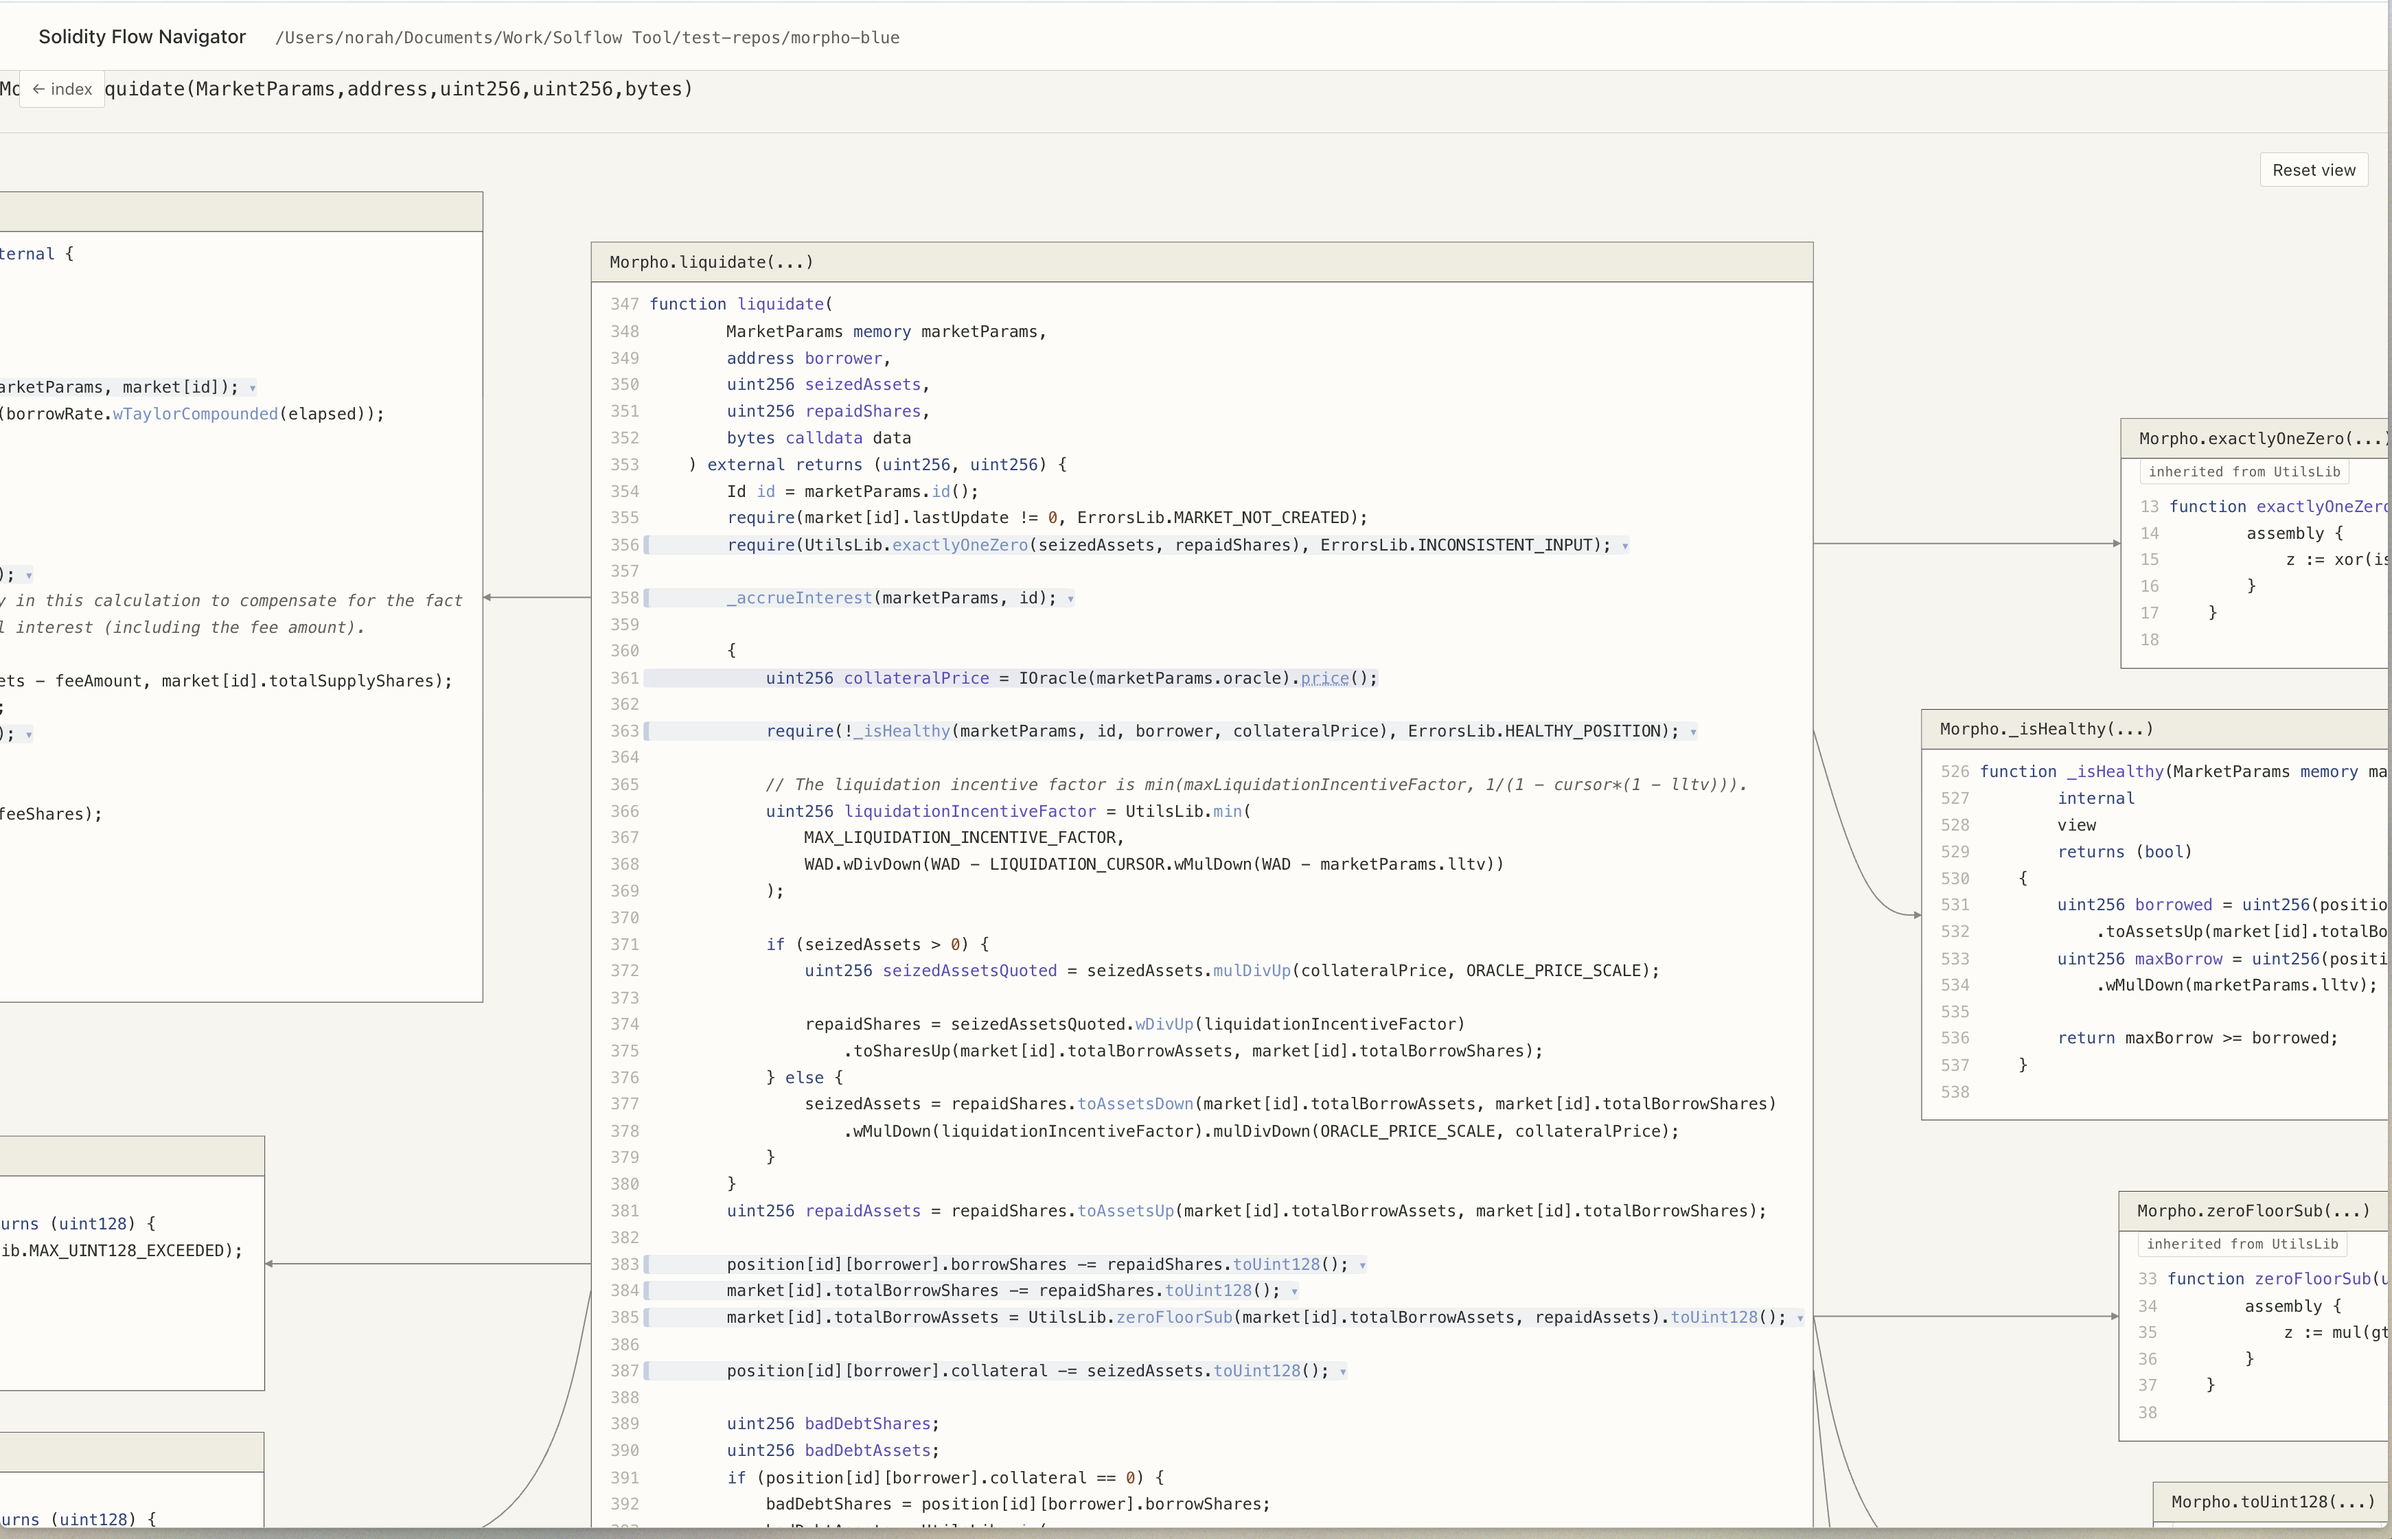
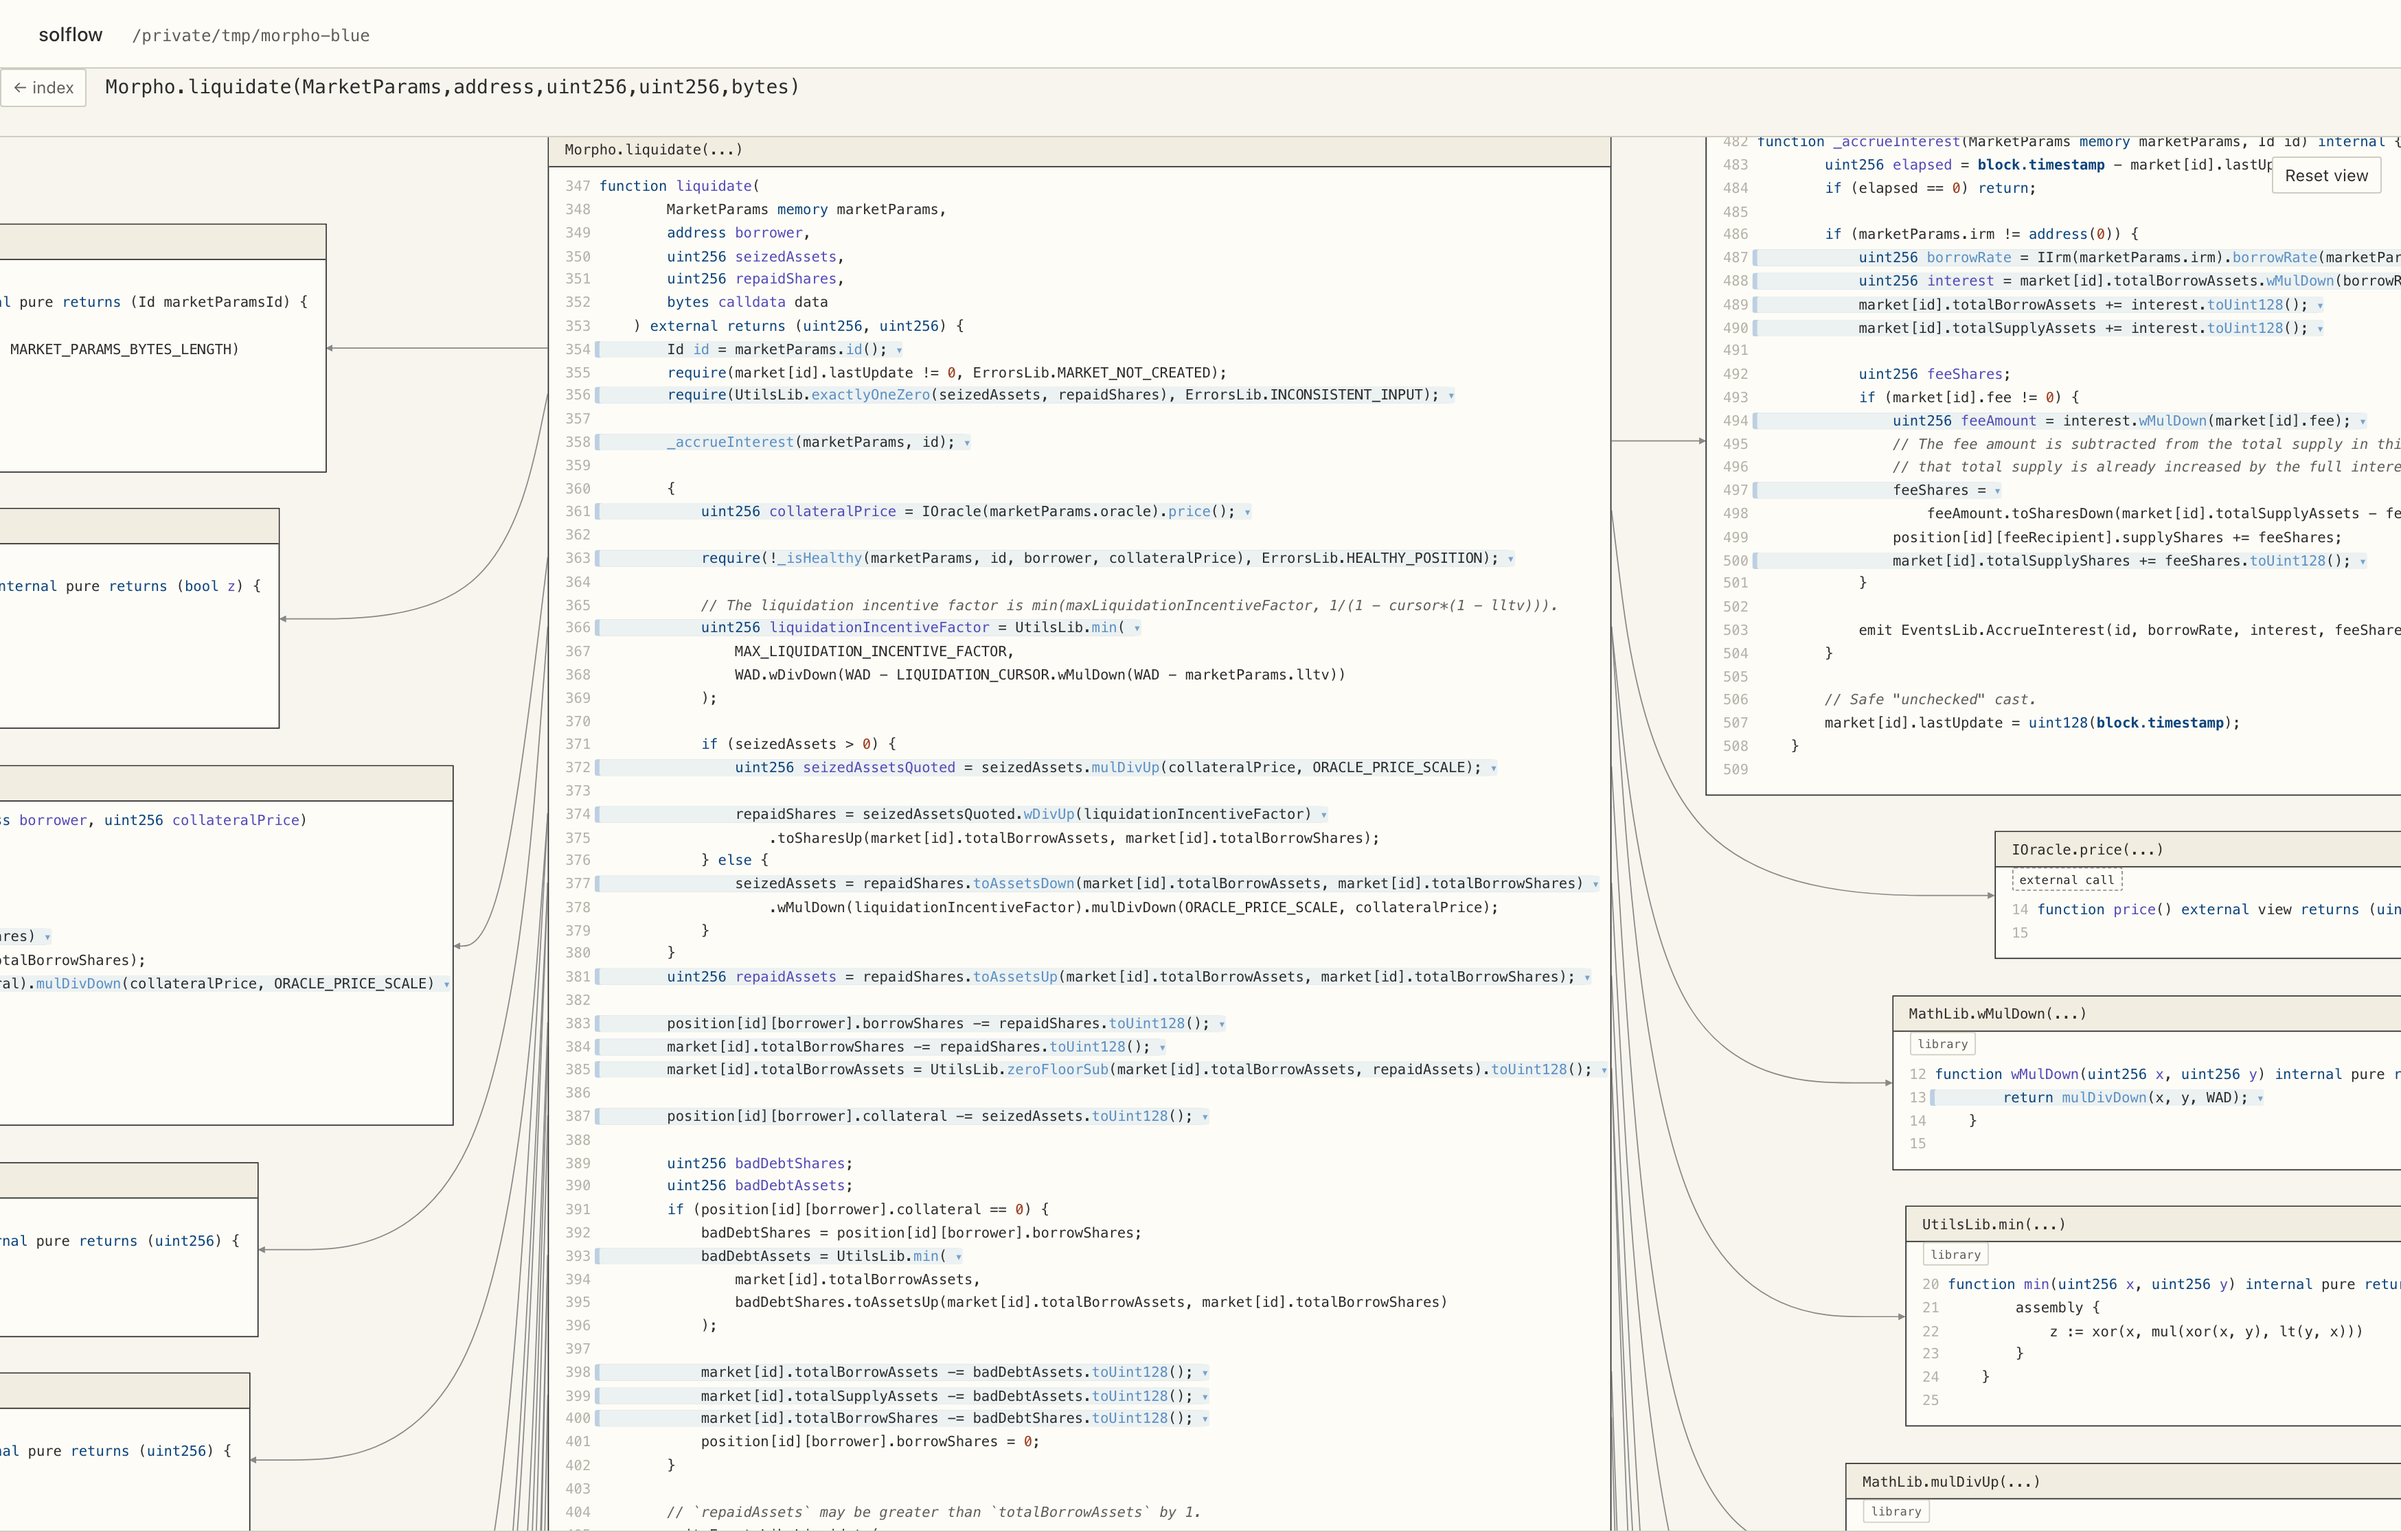
docs: README rewrite with demo.gif, re-take Morpho screenshots at neutral path
The previous screenshots displayed the local home-directory path of the
analyzed repo in the tool header. Re-taken against a /private/tmp copy of
morpho-blue at identical 3496x2232 resolution, now showing the current UI.
New demo.gif cycles the three stills as the README hero; stills move into
a collapsible section. README itself restructured around what the tool
does for auditors; corrected the claim that solflow auto-opens a browser
(it prints the URL).

diff --git a/README.md b/README.md
@@ -2,15 +2,58 @@
 
 [![CI](https://github.com/norah1499/solidity-flow-navigator/actions/workflows/ci.yml/badge.svg)](https://github.com/norah1499/solidity-flow-navigator/actions/workflows/ci.yml)
 
-Compiles a Solidity repository, extracts call-graph facts with Slither, and serves an interactive call-flow visualization in your browser. Built for smart contract auditing.
+**Read a contract the way it executes, not the way its files are organized.**
 
-## What it does, and does not
+SolFlow compiles a Solidity repository, extracts call-graph facts with [Slither](https://github.com/crytic/slither), and serves one interactive call-flow visualization per external entry point — every panel showing the function's real source. Built for smart contract auditing.
 
-Shows how calls flow through a contract: entry points, callees, modifiers, and unresolved branches, laid out for fast navigation. Not a vulnerability scanner; makes no security claims. Unresolved branches are always marked as unresolved rather than guessed, so the picture never silently lies (P4).
+![SolFlow navigating Morpho Blue: the entry-point index, the fully expanded liquidate flow, and the same flow zoomed to source level](docs/demo.gif)
+
+*SolFlow on [Morpho Blue](https://github.com/morpho-org/morpho-blue): the entry-point index, the fully expanded `liquidate` flow, and the same flow zoomed to source level.*
+
+## Why
+
+The first job in any audit is reconstructing what actually happens when someone calls an entry point — and the answer is scattered across base contracts, libraries, and modifiers in a dozen files. SolFlow lays it out as a graph you can read:
+
+- **One Flow per entry point.** The index lists every externally callable function, grouped by contract and split into mutating vs read-only — the audit surface on one page, with modifier badges, call-tree depth, and unresolved-target counts per entry.
+- **Real source, not boxes.** Every node renders the target function's actual code, syntax-highlighted and line-numbered. Click a call site and the callee expands beside it, the edge anchored to the exact line that makes the call.
+- **It never silently lies.** When a call target can't be resolved statically — an interface with no bound implementation, `addr.call(...)`, computed-target Yul — the node is explicitly marked unresolved, with the reason. No guessing, no silent omissions.
+- **Local and private.** Analysis runs entirely on your machine and the server binds only to `127.0.0.1`. Audit code is never uploaded anywhere.
+
+SolFlow is **not a vulnerability scanner**. It emits no findings and makes no security claims — it shows you the code's shape so you can find the problems faster.
+
+## Install
+
+Requires Python 3.11+ and a `solc` matching your target, via [solc-select](https://github.com/crytic/solc-select) (Slither needs it to compile):
+
+```bash
+pipx install git+https://github.com/norah1499/solidity-flow-navigator
+pipx install solc-select
+solc-select install <version> && solc-select use <version>
+```
+
+## Use
+
+```bash
+solflow path/to/your/solidity/project
+```
+
+Point it at the repository root, where Slither can resolve dependencies. SolFlow compiles the project, binds `127.0.0.1:8080` (or the next free port), and prints the URL.
+
+Useful flags — `solflow --help` has the full reference, grouped into **Scope**, **Resolution**, **Rendering**, and **Server**:
+
+| Flag | What it does |
+|------|--------------|
+| `--expand-all` | Open every Flow fully expanded — the bird's-eye view |
+| `--exclude-path GLOB`, `--exclude-contract PATTERN` | Narrow which contracts produce Flows |
+| `--inline-library NAME` | Recurse into a `lib/<NAME>/` dependency instead of stubbing it |
+| `--port N` | Bind a specific port |
 
 ## Screenshots
 
-The index lists every external entry point of the analyzed repository (here: Morpho Blue):
+<details>
+<summary>Stills from the demo above (Morpho Blue)</summary>
+
+The index lists every external entry point of the analyzed repository:
 
 ![Index view listing the entry points of Morpho Blue](docs/index-morpho.png)
 
@@ -20,36 +63,7 @@ Opening an entry point renders its full call flow — every callee panel shows t
 
 ![Zoomed view of the liquidate flow with inherited library functions](docs/flow-liquidate-detail.png)
 
-## Requirements
-
-- Python 3.11+
-- `solc` via `solc-select` (Slither needs a matching solc to compile):
-
-  ```bash
-  pipx install solc-select
-  solc-select install <version>
-  solc-select use <version>
-  ```
-
-## Install
-
-```bash
-pipx install git+https://github.com/norah1499/solidity-flow-navigator
-```
-
-## Quickstart
-
-```bash
-solflow path/to/your/solidity/project
-```
-
-Point it at the project root where Slither can resolve dependencies. Serves on port 8080 by default (next free port if busy) and opens in your browser.
-
-## Usage
-
-Full flag reference: `solflow --help`. Flags group into **Scope**, **Resolution**, **Rendering**, **Server**.
-
-`--expand-all` opens every Flow fully expanded for a bird's-eye view.
+</details>
 
 ## Contributing
 
@@ -63,4 +77,4 @@ ruff check
 
 ## License
 
-AGPL-3.0. SolFlow builds on Slither and crytic-compile, both AGPL-3.0. If you host an instance for others, the license requires offering them the source; the index footer links back here.
+AGPL-3.0 — not a free choice: SolFlow builds on Slither and crytic-compile, both AGPL-3.0. If you host an instance for others, the license requires offering them the source; the index footer links back here.
